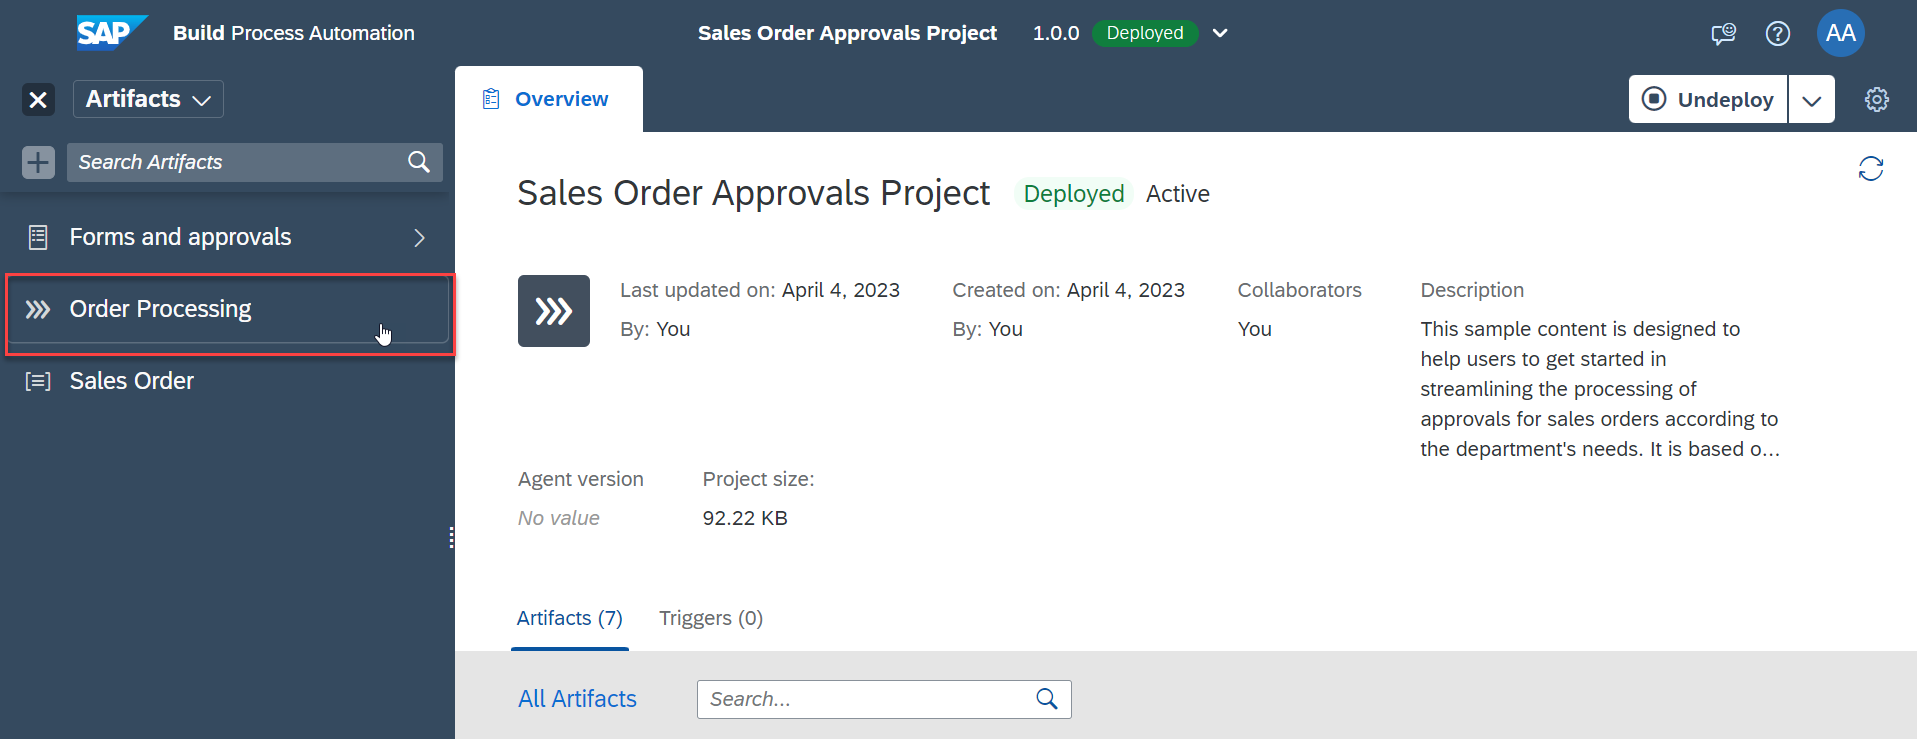
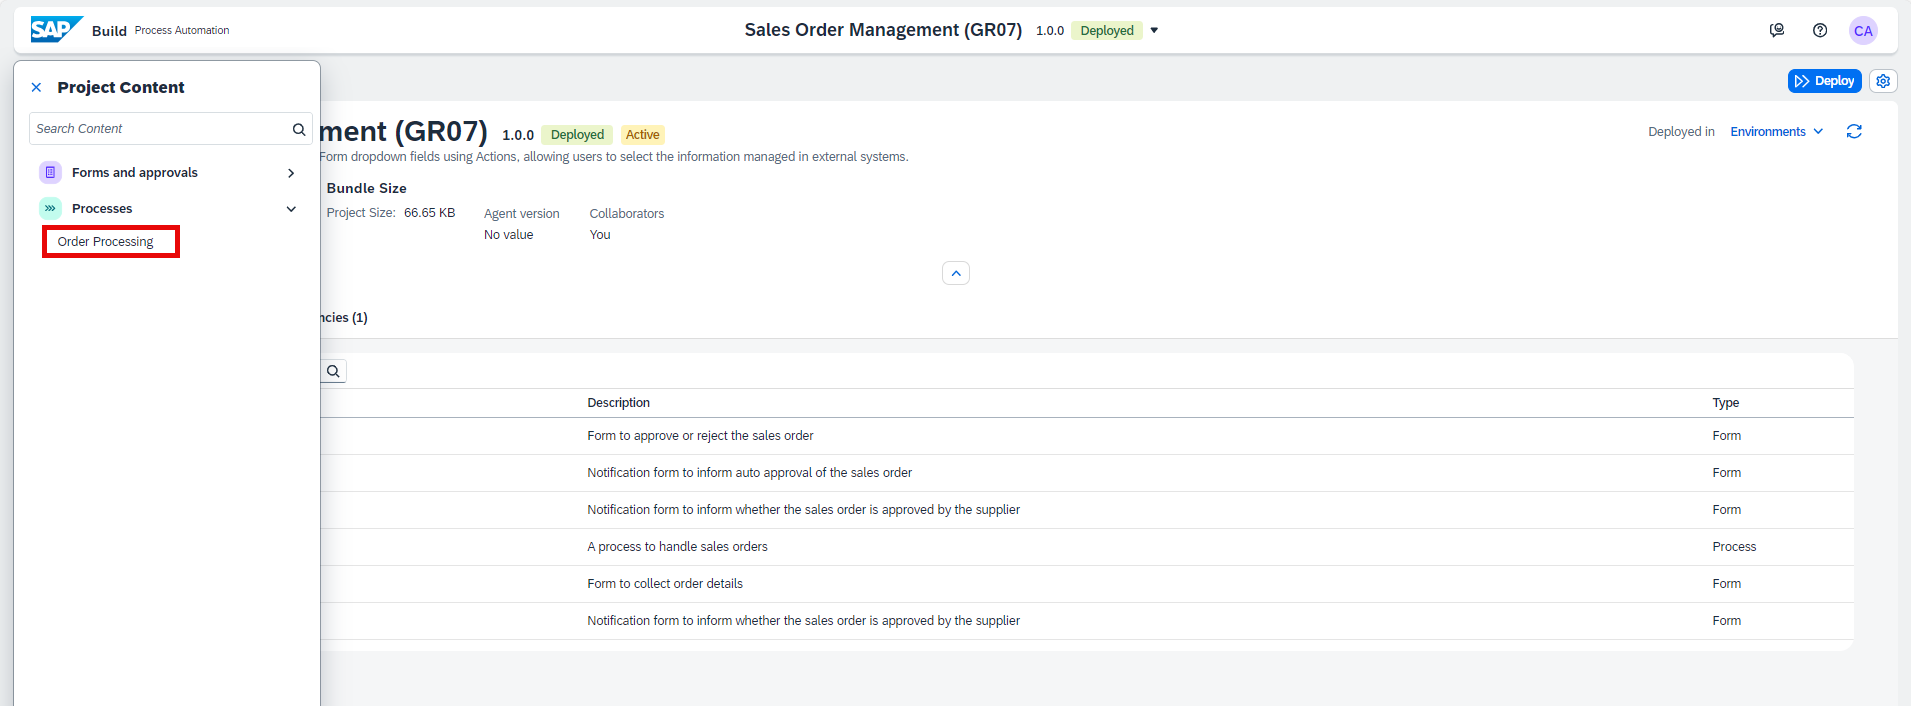
small update

diff --git a/tutorials/spa-dropdown-value-help-filtering-test/spa-dropdown-value-help-filtering-test.md b/tutorials/spa-dropdown-value-help-filtering-test/spa-dropdown-value-help-filtering-test.md
@@ -51,7 +51,7 @@ In this tutorial, you will release and deploy the project created in the previou
 
 ### Test the dropdown filtering in the form
 
-1. From the artifacts list in the left menu, select **Order Processing** process.
+1. Open the project content on the left menu and select **Order Processing** process.
 
     <!-- border -->![Action Project](007.png)
 
